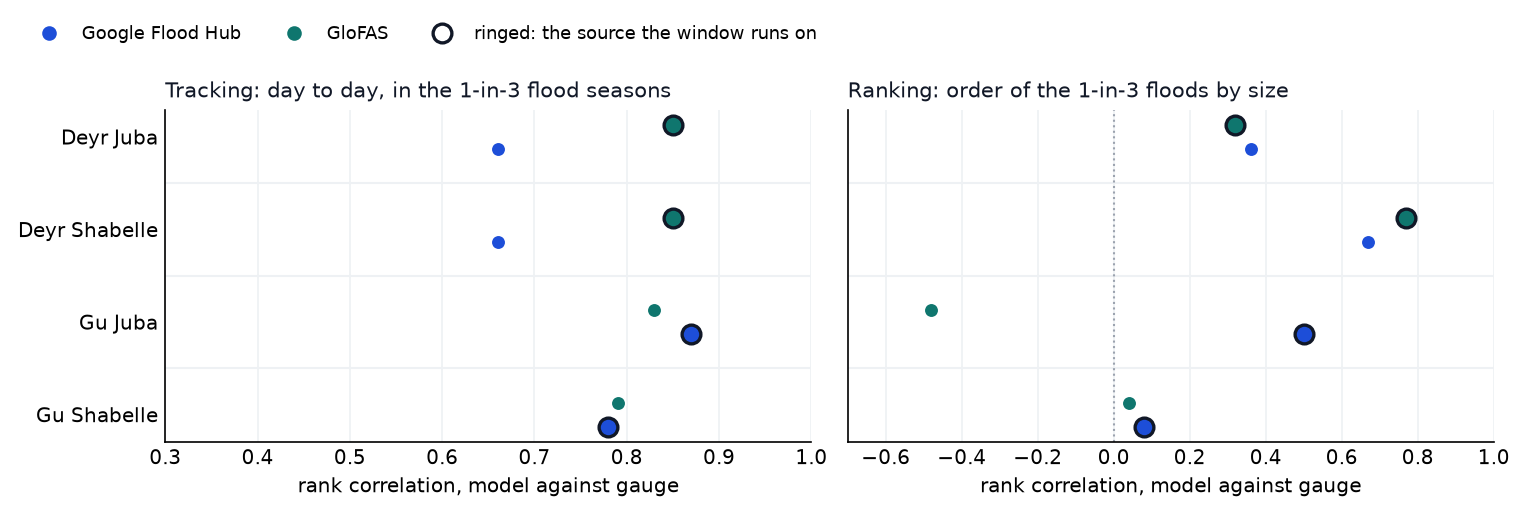
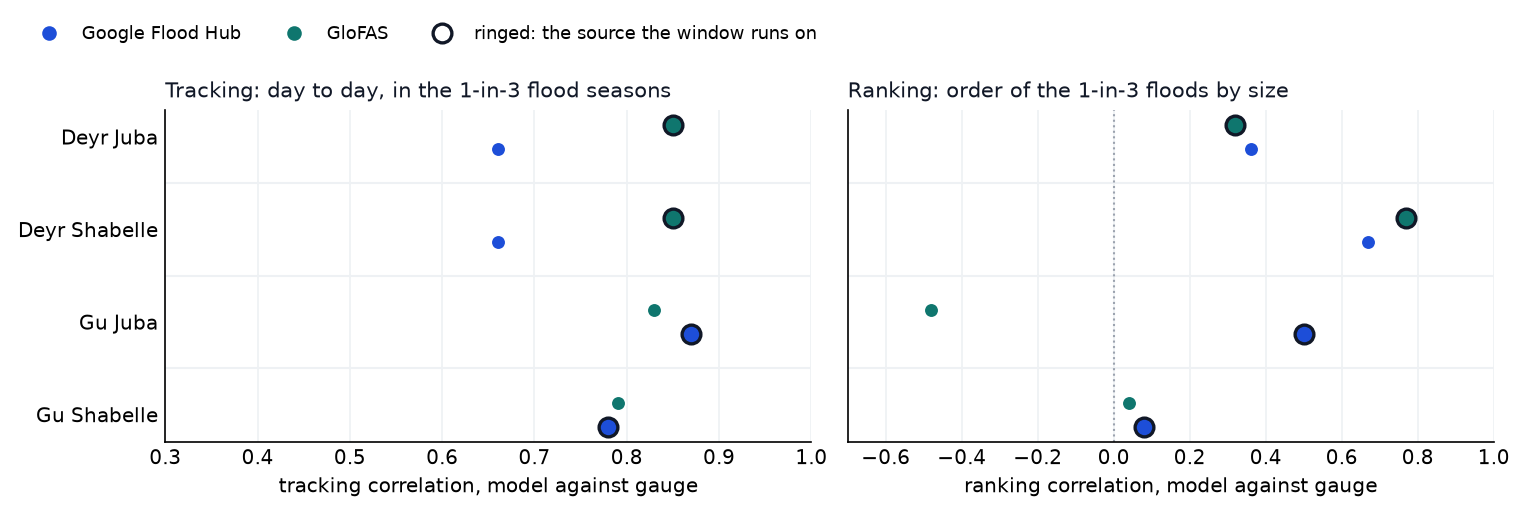
Summary page: correlation panels labelled tracking and ranking

Changed region(s): [[0.6156, 0.932, 0.9234, 0.9631], [0.1847, 0.932, 0.4617, 0.9631]]

diff --git a/scripts/page_additions/summary_page.py b/scripts/page_additions/summary_page.py
@@ -218,9 +218,9 @@ plt.rcParams.update({"font.size": 9.5, "axes.spines.top": False, "axes.spines.ri
 def fig_agreement():
     fig, axes = plt.subplots(1, 2, figsize=(10.2, 3.3), sharey=True)
     labels = [wname(r, s) for r, s in WINDOWS]
-    panels = [(axes[0], track, (0.3, 1.0), "Tracking: day to day, in the 1-in-3 flood seasons"),
-              (axes[1], agree, (-0.7, 1.0), "Ranking: order of the 1-in-3 floods by size")]
-    for ax, data, xlim, title in panels:
+    panels = [(axes[0], track, (0.3, 1.0), "Tracking: day to day, in the 1-in-3 flood seasons", "tracking correlation, model against gauge"),
+              (axes[1], agree, (-0.7, 1.0), "Ranking: order of the 1-in-3 floods by size", "ranking correlation, model against gauge")]
+    for ax, data, xlim, title, xlabel in panels:
         for i, (r, s) in enumerate(WINDOWS):
             for m, dy in (("google_grrr", .13), ("glofas_v5", -.13)):
                 v = data[(r, s)][m]
@@ -231,7 +231,7 @@ def fig_agreement():
                 ax.axhline(i + .5, color="#eef1f4", lw=1)
         ax.axvline(0, color="#9ca3af", lw=1, ls=":")
         ax.set_xlim(*xlim); ax.set_title(title, fontsize=10, loc="left", color="#111827")
-        ax.set_xlabel("rank correlation, model against gauge")
+        ax.set_xlabel(xlabel)
         ax.grid(axis="x", color="#eef1f4"); ax.tick_params(length=0)
     axes[0].set_yticks(range(len(labels))); axes[0].set_yticklabels(labels); axes[0].invert_yaxis()
     handles = [Line2D([], [], marker="o", ls="none", color=COL[m], label=("Google Flood Hub" if m == "google_grrr" else "GloFAS")) for m in ("google_grrr", "glofas_v5")]
